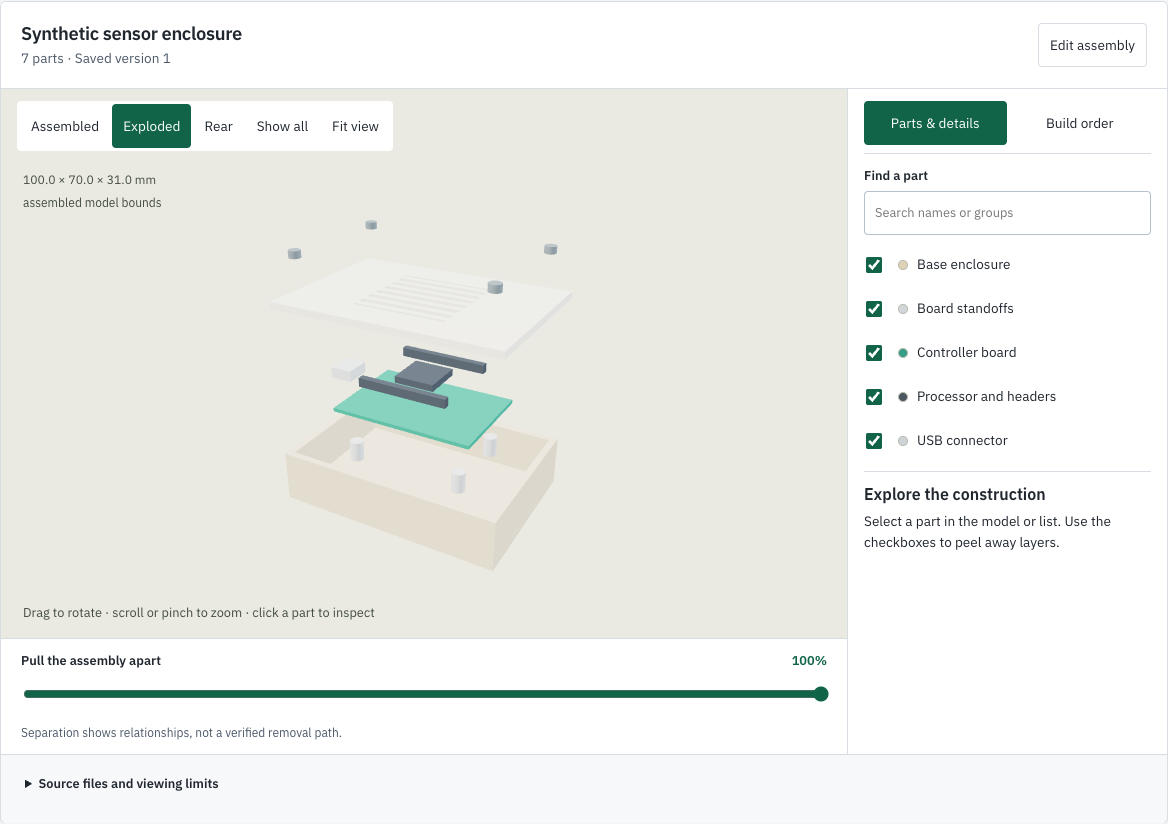
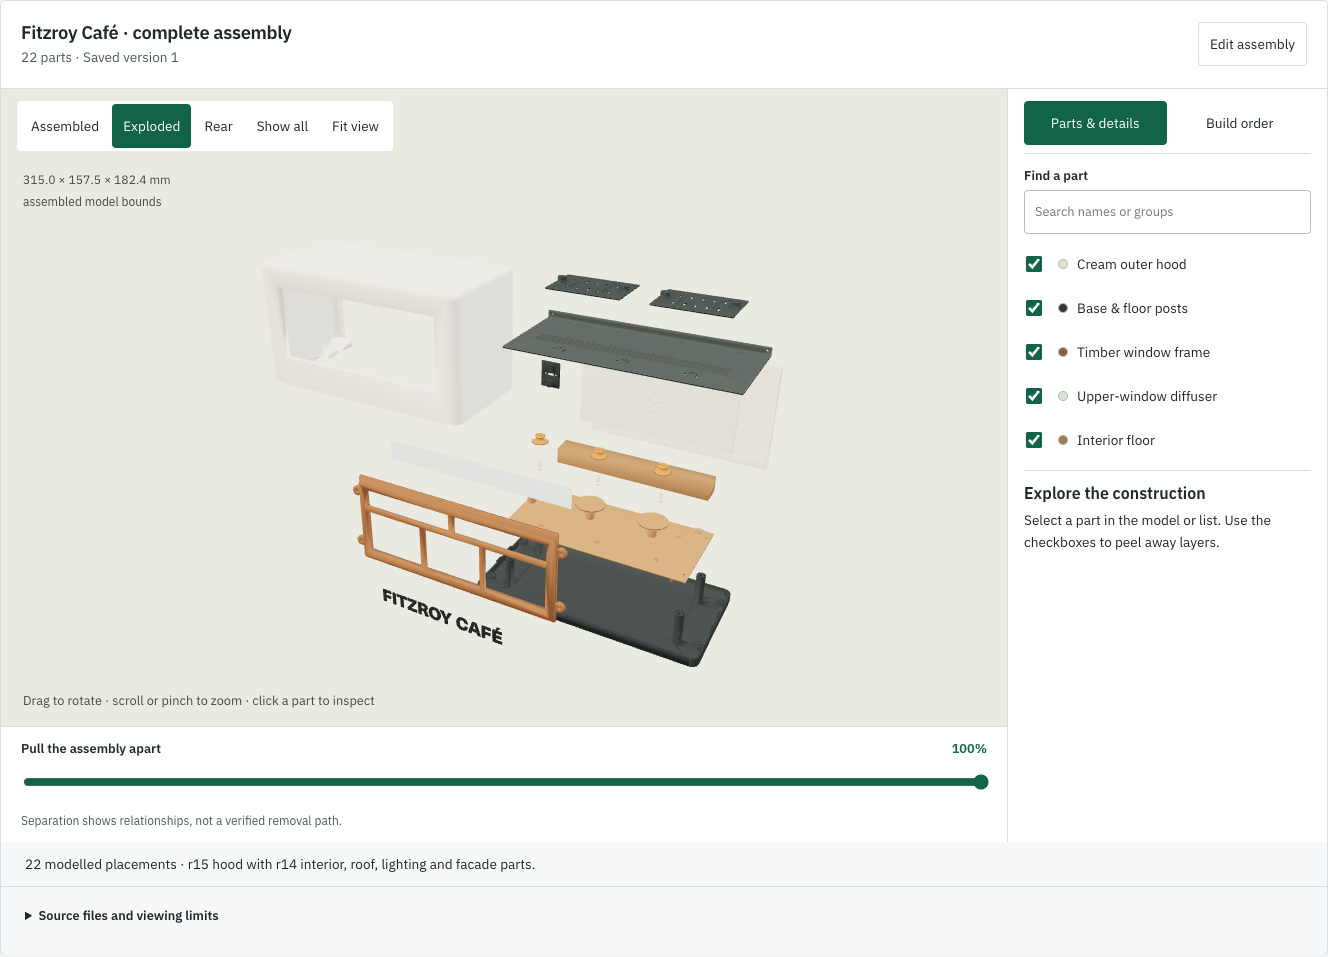
Showcase complete Fitzroy build, native PCBs and connected project workflows (#72)
* docs: showcase the complete build workflow and PCB inspection

* docs: showcase the complete Fitzroy Cafe assembly

diff --git a/README.md b/README.md
@@ -2,9 +2,9 @@
   <img src="docs/assets/benchledger-lockup.svg" alt="BenchLedger" width="560">
 </p>
 
-<h3 align="center">Inventory, build planning and exploded CAD views for your workshop.</h3>
+<h3 align="center">From parts drawer to finished build.</h3>
 
-<p align="center">A self-hosted workspace for 3D printing, electronics and maker projects.<br>Keep parts, BOMs, model files and build guides together — with the same tools available to people and MCP agents.</p>
+<p align="center">Your inventory, BOM, CAD assembly, PCB and build plan — in one project.<br>A self-hosted, open-source workshop for people and MCP agents.</p>
 
 <p align="center">
   <a href="https://github.com/newtonlorenz/benchledger/actions/workflows/check.yml"><img alt="Build and tests" src="https://github.com/newtonlorenz/benchledger/actions/workflows/check.yml/badge.svg"></a>
@@ -14,70 +14,98 @@
   <a href="docs/agent-quickstart.md"><img alt="Model Context Protocol" src="https://img.shields.io/badge/AI-MCP--ready-c2410c"></a>
 </p>
 
-<p align="center"><a href="#try-it-locally">Quickstart</a> · <a href="#see-it-in-action">Showcase</a> · <a href="docs/assembly-explorer.md">CAD viewer</a> · <a href="docs/agent-quickstart.md">Connect an agent</a> · <a href="CONTRIBUTING.md">Contribute</a></p>
+<p align="center"><a href="#try-it-locally">Quickstart</a> · <a href="#see-it-in-action">Showcase</a> · <a href="docs/assembly-explorer.md">CAD</a> · <a href="docs/pcb-viewer.md">PCBs</a> · <a href="docs/agent-quickstart.md">Connect an agent</a> · <a href="CONTRIBUTING.md">Contribute</a></p>
 
-![BenchLedger assembly explorer separating the cover, circuit board, fasteners and base of a synthetic electronics enclosure](docs/assets/showcase/assembly-exploded.png)
+![The complete Fitzroy Café design in BenchLedger: exploded shell, window lettering, interior furniture, pendant lights, roof and base](docs/assets/showcase/assembly-exploded.png)
 
-*Actual app screenshots using synthetic demo data. The sample enclosure is illustrative, not a validated design.*
+*Fitzroy Café in BenchLedger: all 22 modelled placements, with the r15 shell and r14 interior, roof and facade. Captured directly in the app.*
 
 > [!NOTE]
 > **Early open-source release.** The app works locally and on a private LAN. APIs and schemas may change before 1.0; there is no managed hosted service.
 
-## What can I do with it?
+## Your build, connected
 
-- **Find the parts you already have.** Track filament, electronics, fasteners, tools and printers, with separate evidence for ordered, delivered and physically checked stock.
-- **Plan a build around real gaps.** Keep requirements, bill of materials (BOM), revisions, reuse choices and supplier offers together.
-- **Explore how a model fits together.** Open STEP, GLB or STL files, pull parts apart, hide layers and inspect the construction in your browser.
-- **Leave a useful build guide.** Save part names, placements, fixing notes, linked requirements and a step-by-step assembly order.
-- **Keep the project history.** Tie CAD, slicer files, firmware and drawings to exact revisions; reconcile used stock, returns and leftovers after a build.
-- **Let an agent help.** Scoped MCP tools use the same validation, permissions and audit history as the web interface.
+A board belongs with its enclosure. An enclosure belongs with its parts list. A parts list should know what is already in your workshop.
+
+BenchLedger keeps that context together, from the first requirement to the stock left after a build. Open it in a browser, connect an MCP agent, or use both against the same project records.
+
+| In your project | What you can do today |
+| --- | --- |
+| **Inventory & equipment** | Search electronics, filament, fasteners, tools and printers. Organise categories, images and locations; track exact product variants and separate ordered, delivered and counted stock. |
+| **BOM & readiness** | Start from a template or review a CSV import. See **Ready / Check / Decide / Source** requirements, inspect alternatives and reserve confirmed parts. |
+| **CAD & assembly guides** | Inspect STEP, GLB and STL, select or isolate parts, explore exploded views, and save placements, requirement links and build steps. |
+| **PCB inspection** | Open native KiCad boards or STEP/GLB exports within the project. Inspect top/bottom views, supported copper, drills and footprint outlines. |
+| **Files & revisions** | Keep CAD, firmware, drawings and slicer files with exact project or workstream revisions. Preview supported files and download originals with integrity checks. |
+| **Build planning** | Record repeated parts, plates, run counts, materials, nozzle side and time estimates. Track workstreams and retain planning snapshots. |
+| **Sourcing & close-out** | Compare dated supplier quotes with pack sizes, currencies and missing costs visible. Review actual usage, returns and leftovers before updating stock. |
+| **HTTP API & MCP** | Read gaps, inspect geometry and prepare plans through shared application rules, scoped access, version checks and audit history. |
+
+[Full capability map](docs/capability-map.md) · [Maker workflows](docs/maker-workflows.md)
 
 ## See it in action
 
-### Explore the construction
+### Pull the assembly apart. Keep the build together.
 
-The assembly viewer includes selection, isolation, searchable parts, assembled/exploded views and a separation slider. Saved guides can include colours, materials, position adjustments, requirement links and build steps.
+The café above is a real build project: a removable shell, timber-coloured window frame, three tables, a counter and three pendant lights. Here is the same design assembled:
 
-![A saved synthetic enclosure assembly with a selected circuit board and build notes in BenchLedger's dark interface](docs/assets/showcase/assembly-dark.png)
+![The Fitzroy Café model assembled in BenchLedger, with its window, lettering and miniature interior visible](docs/assets/showcase/assembly-assembled.png)
 
-| Source | What the viewer preserves |
+Select a part, isolate it, search by name, or move between assembled and exploded views. Save an assembly guide with materials, fixing notes, linked requirements and a build order. The source CAD stays intact.
+
+<details>
+<summary>See the same assembly in dark mode</summary>
+
+![Fitzroy Café exploded in BenchLedger dark mode, with the timber window selected and its material and fitting notes visible](docs/assets/showcase/assembly-dark.png)
+
+</details>
+
+[Explore the assembly viewer](docs/assembly-explorer.md) · [Try a separate synthetic enclosure](docs/assets/showcase/synthetic-enclosure.glb)
+
+### The PCB is part of the project
+
+Open a board from **Files → PCB** without leaving its build context. Rotate it, switch between top and bottom, show or hide copper and footprint outlines, then search for a reference or value to inspect a component.
+
+![Native KiCad PCB in BenchLedger with source copper, drill openings, selectable footprint outlines and project navigation](docs/assets/showcase/pcb-top.png)
+
+The native reader uses the board's declared dimensions, supported outer copper, drills and footprint drawings. **Footprint outlines are not component bodies.** Missing models and unsupported geometry are reported; use a self-contained STEP/GLB export when detailed bodies or filled zones matter. This is inspection, not PCB editing or DRC.
+
+The same source can join enclosure geometry in **Assembly**. MCP agents inspect the same revision and file hash through `inspect_assembly_sources`.
+
+[PCB support and limits](docs/pcb-viewer.md) · [Download the synthetic KiCad board](docs/assets/showcase/synthetic-controller.kicad_pcb)
+
+### Know what you have. See what is missing.
+
+The workbench brings projects, equipment and next actions together. Open a project to review its requirements: ready to use, needs a physical check, needs a decision, or needs sourcing. Uncertain stock stays uncertain until evidence changes it.
+
+![Fresh BenchLedger workbench capture with synthetic projects, workshop equipment and next actions](docs/assets/showcase/workbench.png)
+
+![A synthetic project plan in BenchLedger showing requirements and their Ready, Check, Decide or Source state](docs/assets/showcase/project-plan.png)
+
+Reviewed CSV imports, requirement filters, supplier quotes, plate plans and independent workstreams support larger builds. Stock close-out records what was used, returned or left over through an explicit review. Technical mode exposes exact identities, units, provenance and history.
+
+### Give your agent the same project context
+
+Use BenchLedger as a web app, or connect an MCP-capable client to help with the work:
+
+> “Read this project's current revision and BOM. Inspect the board and enclosure files, draft an assembly order, and list the checks we still need before sourcing anything.”
+
+Agents can inspect source parts, calculate gaps, record supplier observations and save plans through the same application services. Typed tools preserve project scope, exact file hashes, optimistic concurrency and audit history. Purchasing, physical verification and printer operation remain separate decisions.
+
+[Connect an agent](docs/agent-quickstart.md) · [MCP setup and tools](apps/mcp/QUICKSTART.md) · [Bundled agent skill](skills/benchledger/SKILL.md)
+
+### Bring your existing files
+
+| Source | Viewing support |
 | --- | --- |
-| **STEP / STP** | Separate solids, source placements and hierarchy where present; declared units are converted to millimetres. |
-| **GLB** | Static glTF meshes, nested transforms, repeated placements and illustrative colours. |
-| **STL** | One part per file, with explicit units and editable placement. |
+| **KiCad `.kicad_pcb`** | Supported board outline, thickness, drills, outer copper and footprint geometry; reference/value metadata. |
+| **STEP / STP** | Separate solids, placements and hierarchy where present; declared units converted to millimetres. |
+| **GLB** | Static meshes, nested transforms, repeated placements and illustrative colours; bounded support for fragmented CAD exports. |
+| **STL** | One part per file, with explicit units and editable placement in Assembly. |
+| **Images, Markdown, text** | In-project previews; other stored formats remain downloadable. |
 
-Separate exports keep their original positions. An exploded view illustrates relationships; it does not establish fit or a safe removal sequence. Other native CAD formats need a STEP or GLB export.
+Exploded positions illustrate relationships, not a verified removal path. PCB and CAD views do not establish mechanical fit, electrical safety or manufacturing readiness.
 
-[Assembly guide and limits](docs/assembly-explorer.md) · [Download the synthetic demo model](docs/assets/showcase/synthetic-enclosure.glb) · [Screenshot provenance](docs/showcase.md)
-
-### Know what needs attention
-
-The workbench brings projects, equipment and next actions together. Stock evidence helps distinguish what is ready to use from what still needs counting, a decision or sourcing.
-
-![BenchLedger workbench showing synthetic maker projects, stock checks and workshop equipment](docs/assets/showcase/workbench.png)
-
-| Status | Next action |
-| --- | --- |
-| **Ready** | The recorded evidence supports using this item. |
-| **Check** | Confirm a count or compatibility detail. |
-| **Decide** | Resolve a project choice. |
-| **Source** | Review options for a confirmed gap. |
-
-Technical mode exposes exact variants, lots, provenance, revision scope, hashes and audit history.
-
-### Keep people and agents on the same page
-
-BenchLedger works as a normal web app. An MCP-capable client can also read inventory, calculate gaps, inspect model parts, prepare an assembly guide and save approved changes through the same application service.
-
-For example, ask your agent:
-
-> “Read this project's current revision. Inspect its model files, explain the parts, and draft a build order. Flag missing evidence before suggesting what to source.”
-
-Assembly tools include `inspect_assembly_sources`, `read_project_assembly`, `save_project_assembly` and `read_assembly_history`. Saves validate exact source hashes and revision ownership, retain history and protect against stale updates.
-
-Agents do not gain permission to purchase products, publish files, purge history or control a printer. Physical verification remains a separate maker decision.
-
-[Agent quickstart](docs/agent-quickstart.md) · [MCP setup and tool reference](apps/mcp/QUICKSTART.md) · [Capability map](docs/capability-map.md) · [Bundled agent skill](skills/benchledger/SKILL.md)
+All images are fresh captures of the shipped app. The Fitzroy Café screenshots show the owner-approved project design; the PCB, workbench and project-plan examples use synthetic data. [Capture details and reproducible sample files](docs/showcase.md).
 
 ## Try it locally
 
@@ -99,7 +127,12 @@ demo-password-please-change
 
 This starts a **synthetic, in-memory demo**. Its data resets when the server restarts. The demo password is public and is not a credential for a persistent installation.
 
-To try the showcase model, download [synthetic-enclosure.glb](docs/assets/showcase/synthetic-enclosure.glb), upload it to the demo project's **Files**, then open **Assembly**. In the file's **Coordinates**, use **metre** units and **Z up**. Choose **Open assembly**, then **Exploded**.
+Try the two examples in a demo project:
+
+1. **Exploded CAD:** upload [synthetic-enclosure.glb](docs/assets/showcase/synthetic-enclosure.glb) in **Files**, then open **Assembly**. In **Coordinates**, select **metre** and **Z up**. Choose **Open assembly → Exploded**.
+2. **Native PCB:** upload [synthetic-controller.kicad_pcb](docs/assets/showcase/synthetic-controller.kicad_pcb) in **Files**, open **PCB**, select the board and choose **Open PCB**. Units and orientation are handled automatically.
+
+These are illustrative viewing examples, not validated designs. Stock close-out is available in persistent installations; the lightweight demo does not advertise it.
 
 For persistent storage, authentication and backups, follow the [self-hosting and deployment guide](docs/deployment.md). MCP connections use scoped bearer tokens even when the browser is configured for trusted-LAN access.
 
@@ -115,7 +148,7 @@ MCP adapter ─────────┘          │                    │
                                └─> content-addressed artifact storage
 ```
 
-Source CAD stays intact. Assembly geometry is derived for viewing; saved guides use the existing versioned workflow store. STEP conversion uses `occt-import-js` / Open CASCADE; rendering uses Three.js. See [format support and dependency licences](docs/assembly-explorer.md#implementation-and-distribution).
+CAD and PCB geometry is derived for viewing; saved guides use the existing versioned workflow store. STEP conversion uses `occt-import-js` / Open CASCADE; rendering uses Three.js. See [format support and dependency licences](docs/assembly-explorer.md#implementation-and-distribution).
 
 BenchLedger does not slice models, generate G-code, control printers, scrape retailers or place orders.
 
@@ -128,13 +161,13 @@ Try it on a maker workflow and tell us where it breaks down. Useful contribution
 - [Browse good first issues](https://github.com/newtonlorenz/benchledger/issues?q=is%3Aissue%20is%3Aopen%20label%3A%22good%20first%20issue%22)
 - [Read the contributing guide](CONTRIBUTING.md)
 
-If BenchLedger would help your workshop, **star the repository** to keep it handy and share it with another maker. Feedback from an actual build is especially useful at this stage.
+Building something with BenchLedger? **Share a screenshot and a link to your project** in [Discussions](https://github.com/newtonlorenz/benchledger/discussions). Public examples help other makers discover what is possible. Star the repository to keep it handy, or send it to someone with a parts drawer that needs organising.
 
 Before contributing, read the [Code of Conduct](CODE_OF_CONDUCT.md), [development workflow](docs/development-workflow.md) and [support guide](SUPPORT.md). Run focused checks while iterating and `npm run check` before review.
 
 ## Privacy and licence
 
-Public examples use synthetic data. Keep real inventory, private project files, supplier history, credentials, databases and backups outside the source tree. Read [Privacy](docs/privacy.md) and [Security](SECURITY.md); run `npm run public:check` before sharing source.
+Downloadable examples use synthetic data; the Fitzroy Café screenshots are published with the project owner's permission. The café CAD files are not included. Keep real inventory, private project files, supplier history, credentials, databases and backups outside the source tree. Read [Privacy](docs/privacy.md) and [Security](SECURITY.md); run `npm run public:check` before sharing source.
 
 BenchLedger's own code is licensed under [Apache 2.0](LICENSE). Dependencies retain their respective licences.
 

diff --git a/docs/showcase.md b/docs/showcase.md
@@ -1,36 +1,84 @@
-# Showcase images and sample model
+# Showcase images and example files
 
-The README images are direct captures of BenchLedger's web interface, using only
-synthetic data. They are not mock-ups, private workshop screenshots or evidence
-of a validated physical build. Captured on 2026-09-13 from the application accompanying this showcase update.
+Captured on **2026-09-16** from BenchLedger revision `c7442a4`, which includes the
+project PCB viewer. Every image is a direct browser capture of the actual app.
+The Fitzroy Café screenshots show the project owner's design, published at their
+request. The PCB, workbench and plan screenshots use synthetic data.
+
+Captures use disposable, in-memory workspaces. No private inventory, host address,
+credential or browser chrome is included. No UI elements or model geometry were
+painted into the screenshots. The café's source CAD and capture helpers remain
+outside the public repository.
 
 | Asset | What it shows |
 | --- | --- |
-| [Workbench](assets/showcase/workbench.png) | The default synthetic demo's project register, attention queue and equipment. |
-| [Exploded assembly](assets/showcase/assembly-exploded.png) | A seven-part synthetic electronics enclosure with saved viewing offsets. |
-| [Dark assembly](assets/showcase/assembly-dark.png) | The same guide, with the controller board selected. |
-| [Sample GLB](assets/showcase/synthetic-enclosure.glb) | Static geometry generated entirely from boxes and cylinders. |
+| [Exploded assembly](assets/showcase/assembly-exploded.png) | The complete Fitzroy Café model: 22 placements, with the r15 hood and r14 interior, roof and facade. |
+| [Assembled café](assets/showcase/assembly-assembled.png) | The same 22-part design in its assembled placement. |
+| [Dark assembly](assets/showcase/assembly-dark.png) | The Fitzroy guide with its timber window selected, showing material and fitting notes in dark mode. |
+| [Native PCB](assets/showcase/pcb-top.png) | Top view of a native KiCad file, with copper, drill openings and selectable footprint outlines. |
+| [Workbench](assets/showcase/workbench.png) | Synthetic project attention and workshop equipment. |
+| [Project plan](assets/showcase/project-plan.png) | The synthetic demo's revision-scoped requirements and readiness. |
+| [Enclosure GLB](assets/showcase/synthetic-enclosure.glb) | Seven static model parts generated from boxes and cylinders. |
+| [Controller KiCad board](assets/showcase/synthetic-controller.kicad_pcb) | A 64 × 44 mm viewing example with 12 component footprints, four mounting holes, six connector drills and illustrative tracks. |
 
-All four assets are suitable for sharing with a link to the repository. They use
-the repository's Apache-2.0 licence. The model is illustrative; it has not been
-checked for printing, mechanical fit, electrical safety or functionality.
+The enclosure and native board are independent illustrative examples. Matching
+outer board dimensions do not establish that their geometry, hole positions or
+connections form a compatible assembly. Neither is a validated electrical circuit,
+printable part, manufacturing file or physical build instruction. The native
+viewer shows footprint drawings, not invented component bodies.
 
-## Recreate the model and views
+## Fitzroy Café captures
 
-1. Follow the README's local quickstart and sign into the in-memory demo.
-2. Run `node scripts/create-showcase-model.mjs` from the repository root to
-   regenerate the GLB. The generator reads no private CAD or project files.
-3. Upload `docs/assets/showcase/synthetic-enclosure.glb` through the demo
-   project's **Files** tab.
-4. In **Assembly**, select that file, open **Coordinates**, set **metre** and
-   **Z up**, then choose **Open assembly**.
-5. Use **Edit assembly** to name the guide `Synthetic sensor enclosure`, add
-   illustrative notes, and set the viewing offsets below. These are display
-   offsets, not manufacturing or disassembly instructions.
-6. Save the guide in the disposable demo, choose **Exploded**, and adjust the
-   zoom with the mouse wheel. Select the controller board for the detail view.
-7. Switch appearance through **View** for the dark capture. Capture the assembly
-   workspace element; do not change labels, state or rendering to simulate UI.
+The actual café GLB was imported through BenchLedger's application service into an
+isolated workspace with **millimetre / Z up** coordinates. Its 22 placements retain
+the source geometry and assembled transforms. The saved guide uses the colours,
+exploded offsets and nine build steps from the project's original assembly viewer.
+The screenshots show BenchLedger's generic **Assembly** interface, not that bespoke
+viewer. Assembled bounds are **315 × 157.5 × 182.4 mm**.
+
+The model includes the shell, window, lettering, diffuser, base, floor, back wall,
+counter, roof tray, rear cover, USB adapter, three tables, three shades, three bulb
+diffusers and two electronics carriers. Screw, insert and cord reference geometry
+from the bespoke viewer is not included in these captures. Actual electronics,
+wiring and a separate miniature coffee machine are not modelled. Colours and
+exploded offsets are illustrative; they do not establish physical fit or a safe
+removal path.
+
+Light-mode captures show all 22 placements in assembled and exploded states.
+The dark-mode capture selects the timber window. Camera framing uses the app's
+orbit and zoom controls; all viewing limits remain available in the interface.
+The private café CAD is not a downloadable sample. Use the synthetic examples
+below to try the same viewer with files supplied in this repository.
+
+## Recreate the downloadable examples
+
+From the repository root, after `npm ci`:
+
+```bash
+node scripts/create-showcase-model.mjs
+node scripts/create-showcase-board.mjs
+npm run build
+npm run dev
+```
+
+These generators read no private project files and create only the two named
+synthetic assets above. The demo uses the public password documented in the
+[README](../README.md#try-it-locally).
+
+1. Sign in to the demo and open the synthetic lamp project.
+2. Upload both example files through **Files**, in the current project revision.
+3. Open **Assembly**, select the GLB, and set **metre / Z up** in **Coordinates**.
+4. Choose **Open assembly**, then **Edit assembly**. Name the guide
+   `Sensor enclosure · assembly guide`, add illustrative notes, and use the
+   viewing offsets below. Save only in the disposable demo.
+5. Choose **Exploded**. Adjust the camera with the viewer's orbit/zoom controls;
+   capture the assembly workspace. Select **Controller board** and use
+   **View → Dark** to explore the dark appearance.
+6. Open **PCB**, choose `synthetic-controller.kicad_pcb`, then **Open PCB → Top**.
+   Select the `U1` footprint outline. Capture the PCB workspace with project
+   navigation visible; leave source warnings and provenance intact.
+7. Capture **Workbench** and the project's **Plan** using their normal UI. All
+   names, counts, requirements and states come from the synthetic demo.
 
 | Part | Separation X / Y / Z (mm) |
 | --- | --- |
@@ -42,10 +90,25 @@ checked for printing, mechanical fit, electrical safety or functionality.
 | Vented cover | 0 / 0 / 65 |
 | Cover fasteners | 0 / 0 / 82 |
 
-The first README workbench image is captured before renaming the demo project.
-The enclosure views use a renamed synthetic demo project. No real inventory,
-project files, service addresses, credentials or browser chrome are included.
+The saved guide groups parts into three steps: **Base and board supports**,
+**Controller and connections**, and **Cover and fasteners**. These are illustrative
+viewing instructions, not a tested assembly sequence.
 
-The full model and capture sizes are intentionally small enough to view directly
-on GitHub. Keep future showcase assets factual and regenerate them from the
-synthetic demo when the relevant interface changes.
+Screenshots use the app's own light/dark appearance controls and camera controls.
+Their crops exclude browser chrome and unrelated navigation while retaining the
+real interface. No CSS overrides or fake overlays are used. Only the owner-approved
+café visuals are published from the private build. Refresh these captures when the
+represented interface changes.
+
+## Share an example
+
+These assets use the repository's Apache-2.0 licence and can accompany a link to
+[BenchLedger](https://github.com/newtonlorenz/benchledger). A useful caption is:
+
+> BenchLedger keeps inventory, BOMs, exploded CAD, native PCB inspection and build
+> planning in one self-hosted project workspace, with shared tools for people and
+> MCP agents. The café is a real project design; the other examples use synthetic
+> demonstration data.
+
+Prefer a specific workflow or a build story over claims about popularity. Remove
+private project details before sharing your own screenshots.
